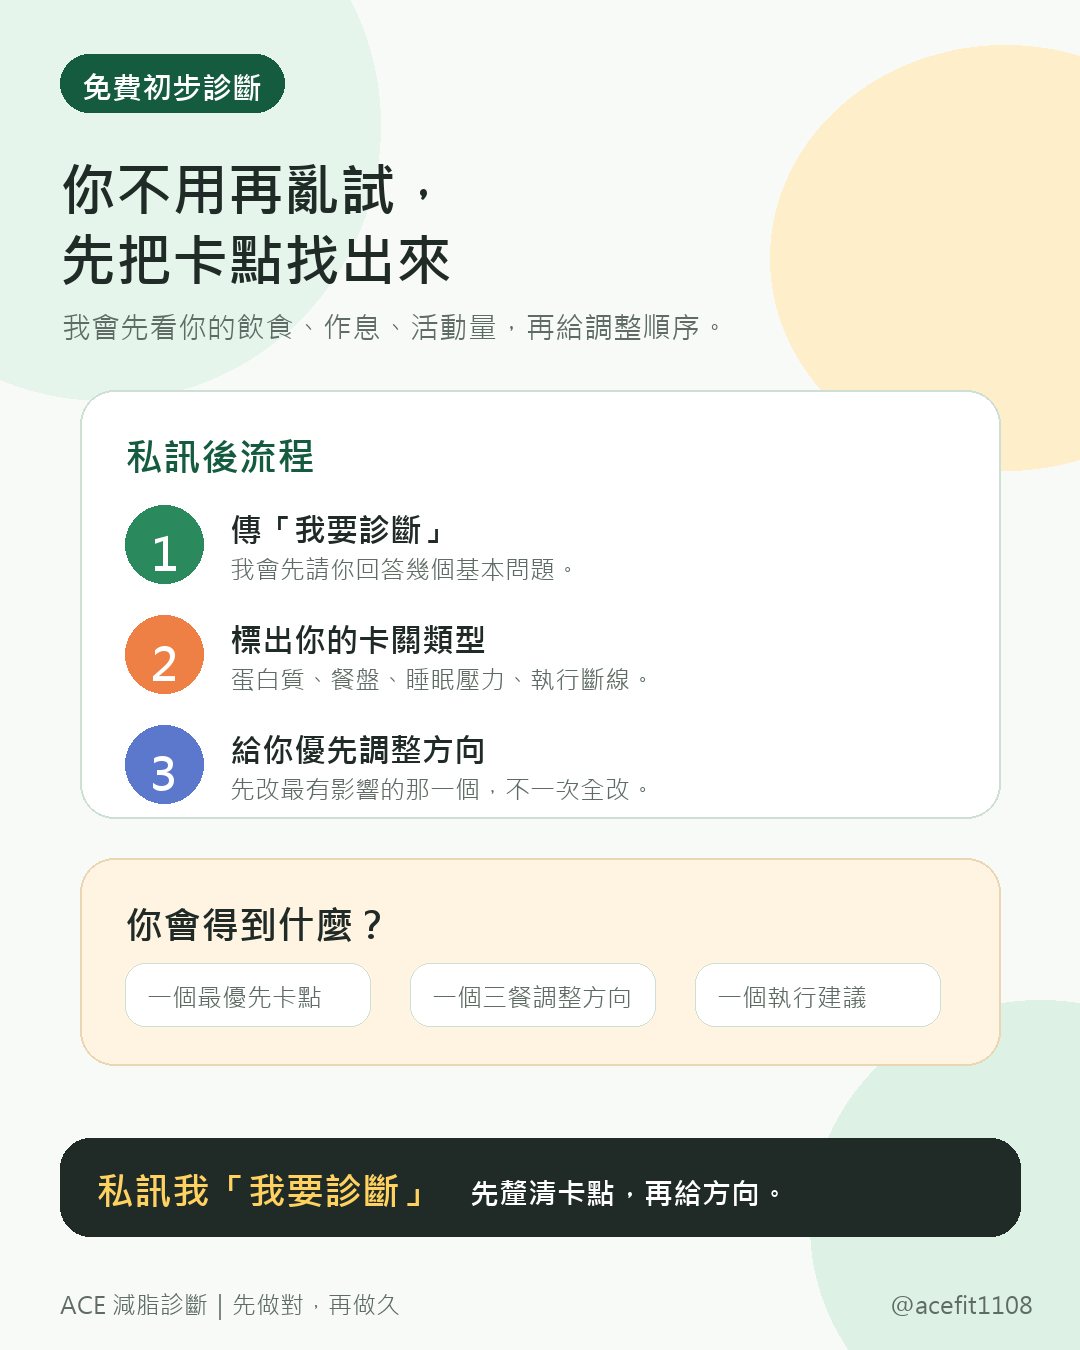
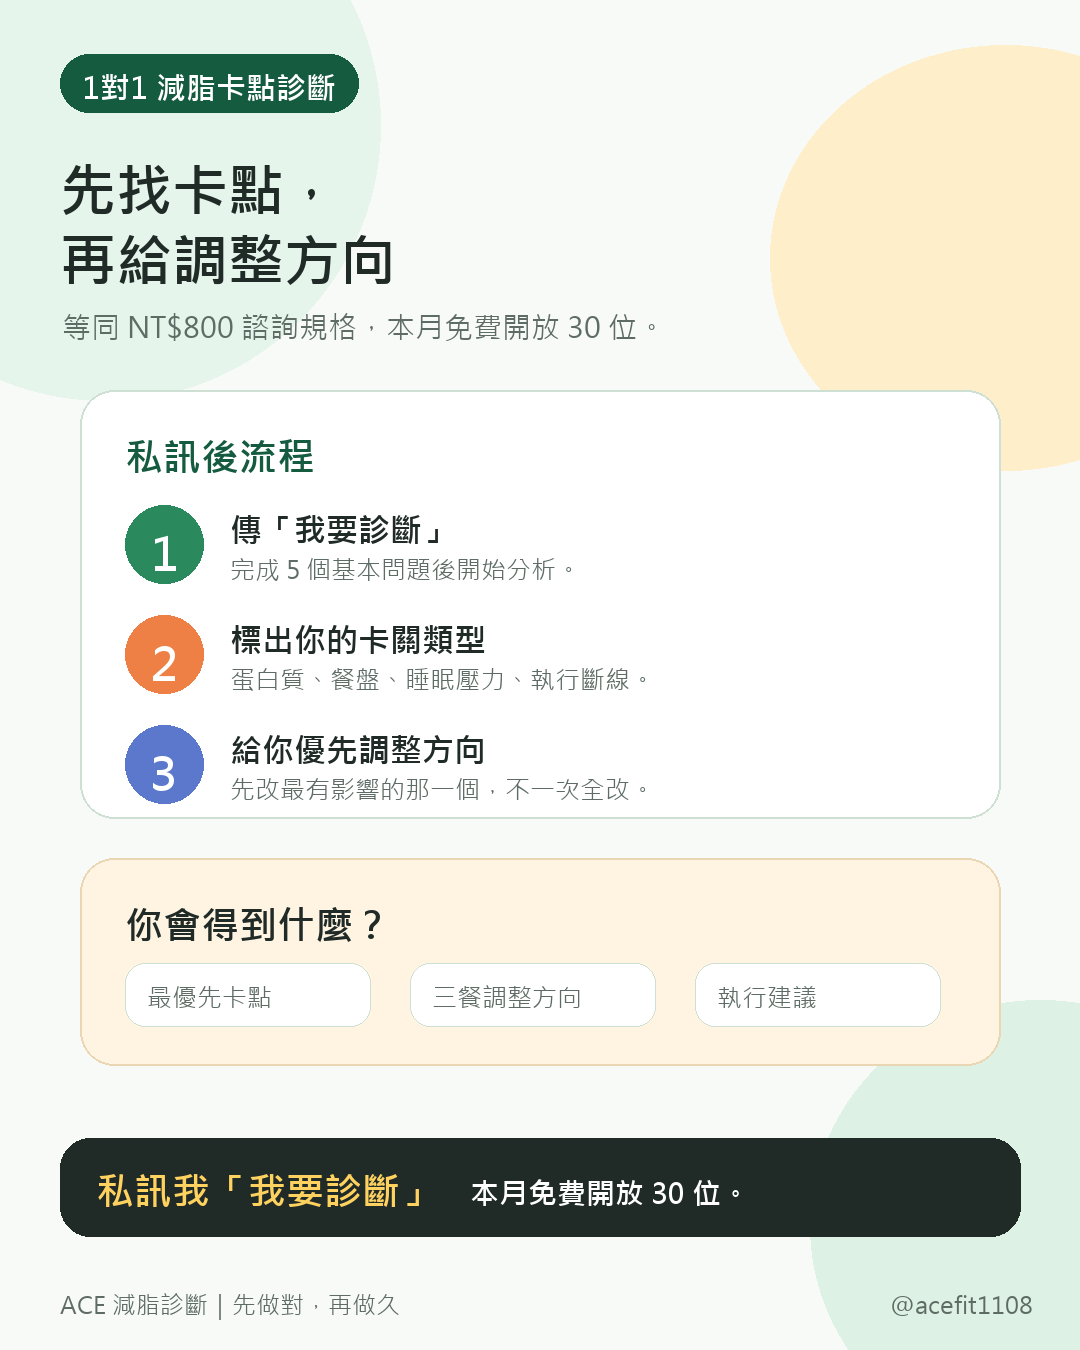
Update ACE 211 diagnosis CTA

diff --git a/acefit1108211.html b/acefit1108211.html
@@ -144,16 +144,20 @@
 
       <section id="consult" class="consult-section" aria-labelledby="consult-title">
         <div class="consult-copy">
-          <p class="eyebrow">免費初步診斷</p>
-          <h2 id="consult-title">先釐清卡點，再給你適合的方向</h2>
+          <p class="eyebrow">1對1 減脂卡點診斷</p>
+          <h2 id="consult-title">等同 NT$800 諮詢規格，本月免費開放 30 位</h2>
           <p>
-            如果你吃得健康、有運動，但體重或體態一直卡住，先讓我幫你看最可能卡在哪裡。
+            如果你吃得健康、有運動，卻還是卡關，我會幫你找出目前最該優先調整的減脂盲點。
           </p>
           <ul class="check-list">
-            <li>一個最優先卡點</li>
-            <li>一個三餐調整方向</li>
-            <li>一個適合你的執行建議</li>
+            <li>你目前最可能卡住的原因</li>
+            <li>三餐飲食裡最容易忽略的盲點</li>
+            <li>外食、作息、活動量的調整順序</li>
+            <li>適合你生活型態的減脂執行方向</li>
           </ul>
+          <p class="consult-note">
+            加 LINE 後傳「我要診斷」，完成 5 個基本問題，我會幫你做初步分析。
+          </p>
           <a class="primary-btn large" href="https://line.me/ti/p/@xne2322x" target="_blank" rel="noreferrer">
             加 LINE 傳「我要診斷」
           </a>

diff --git a/acefit1108211.css b/acefit1108211.css
@@ -440,6 +440,17 @@ figcaption {
   color: var(--yellow);
 }
 
+.consult-note {
+  max-width: 640px;
+  margin: -8px 0 28px;
+  padding: 16px 18px;
+  border: 1px solid rgba(255, 210, 96, 0.36);
+  border-radius: 18px;
+  color: rgba(255, 255, 255, 0.88);
+  background: rgba(255, 210, 96, 0.1);
+  font-weight: 800;
+}
+
 .consult-section img {
   width: min(100%, 430px);
   justify-self: end;
